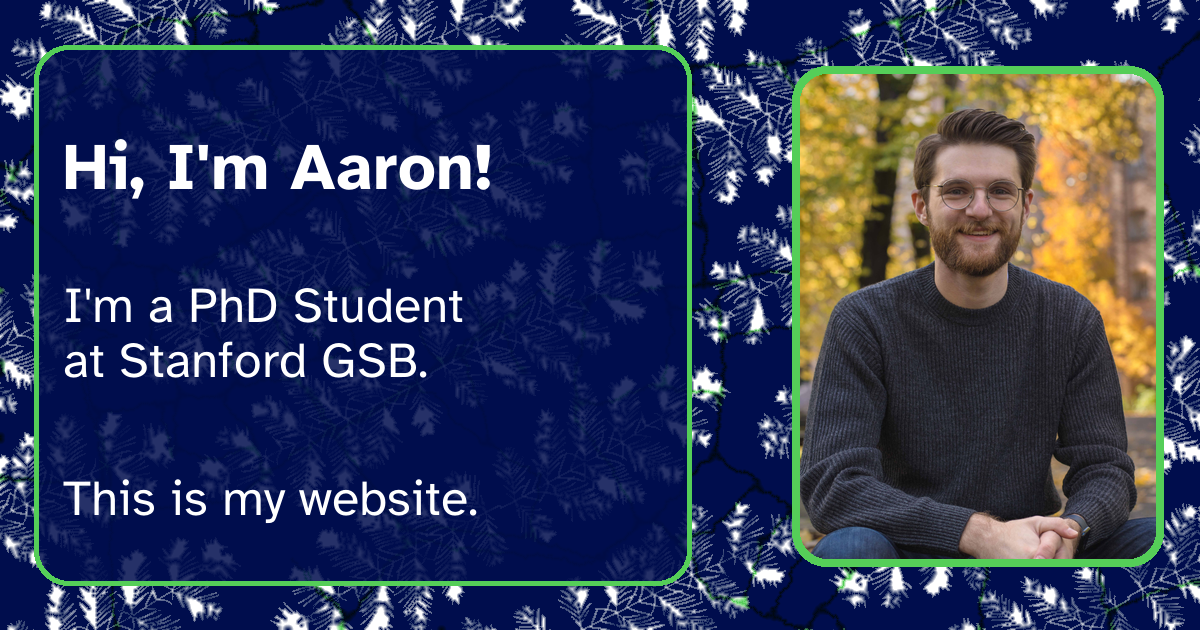
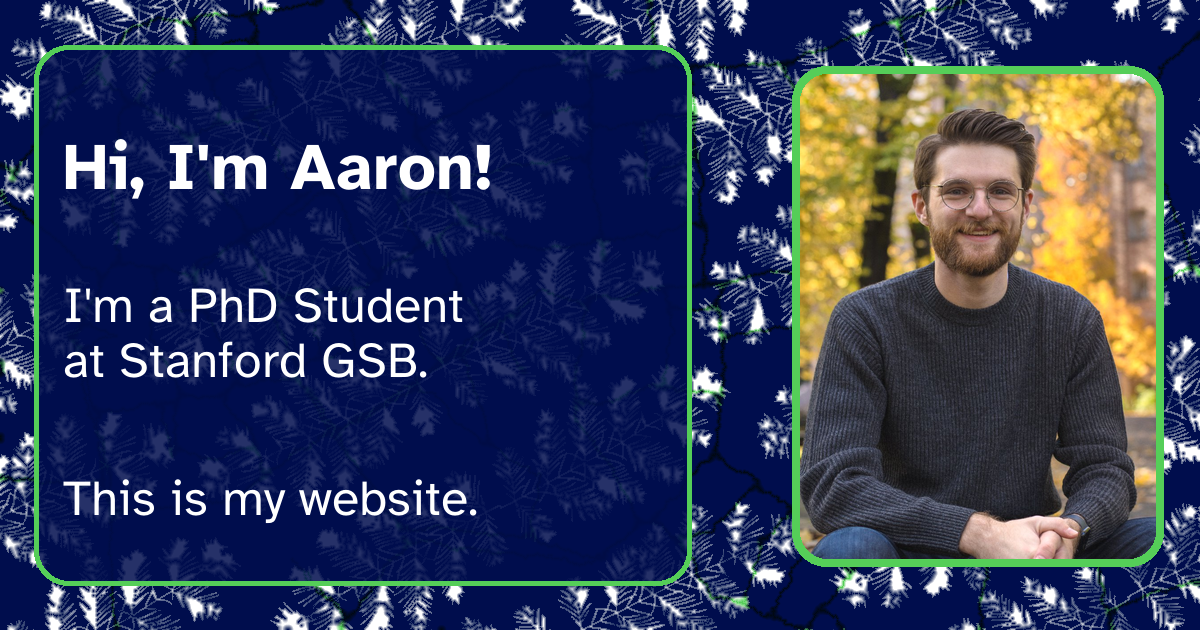
deprecate old portrait use for opengraph

diff --git a/helpers/create_opengraph_image/compose_opengraph.py b/helpers/create_opengraph_image/compose_opengraph.py
@@ -12,7 +12,7 @@ INPUT_PATH = IMAGE_DIR / "batik_canvas.png"
 OUTPUT_PATH = IMAGE_DIR / "opengraph.png"
 ASSETS_DIR = HERE / "../../assets"
 SITE_ACCESS_PATH = ASSETS_DIR / "opengraph.png"
-PORTRAIT_PATH = ASSETS_DIR / "me.jpg"
+PORTRAIT_PATH = ASSETS_DIR / "me-800.jpg"
 
 WIDTH, HEIGHT = 1200, 630
 NAVY = (0x00, 0x0D, 0x4D)
